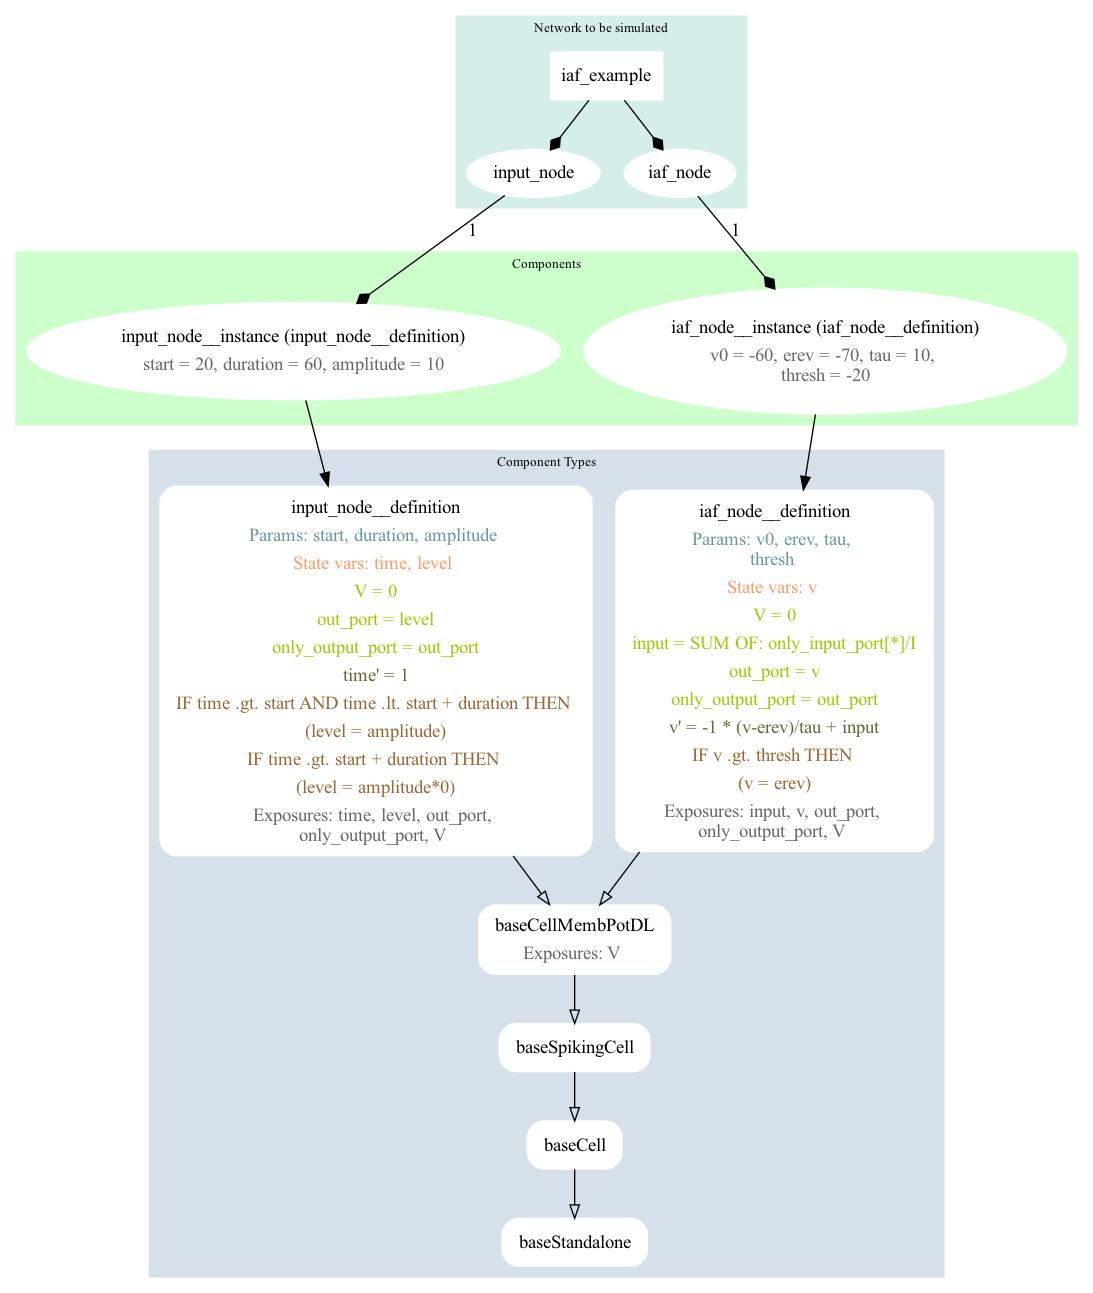
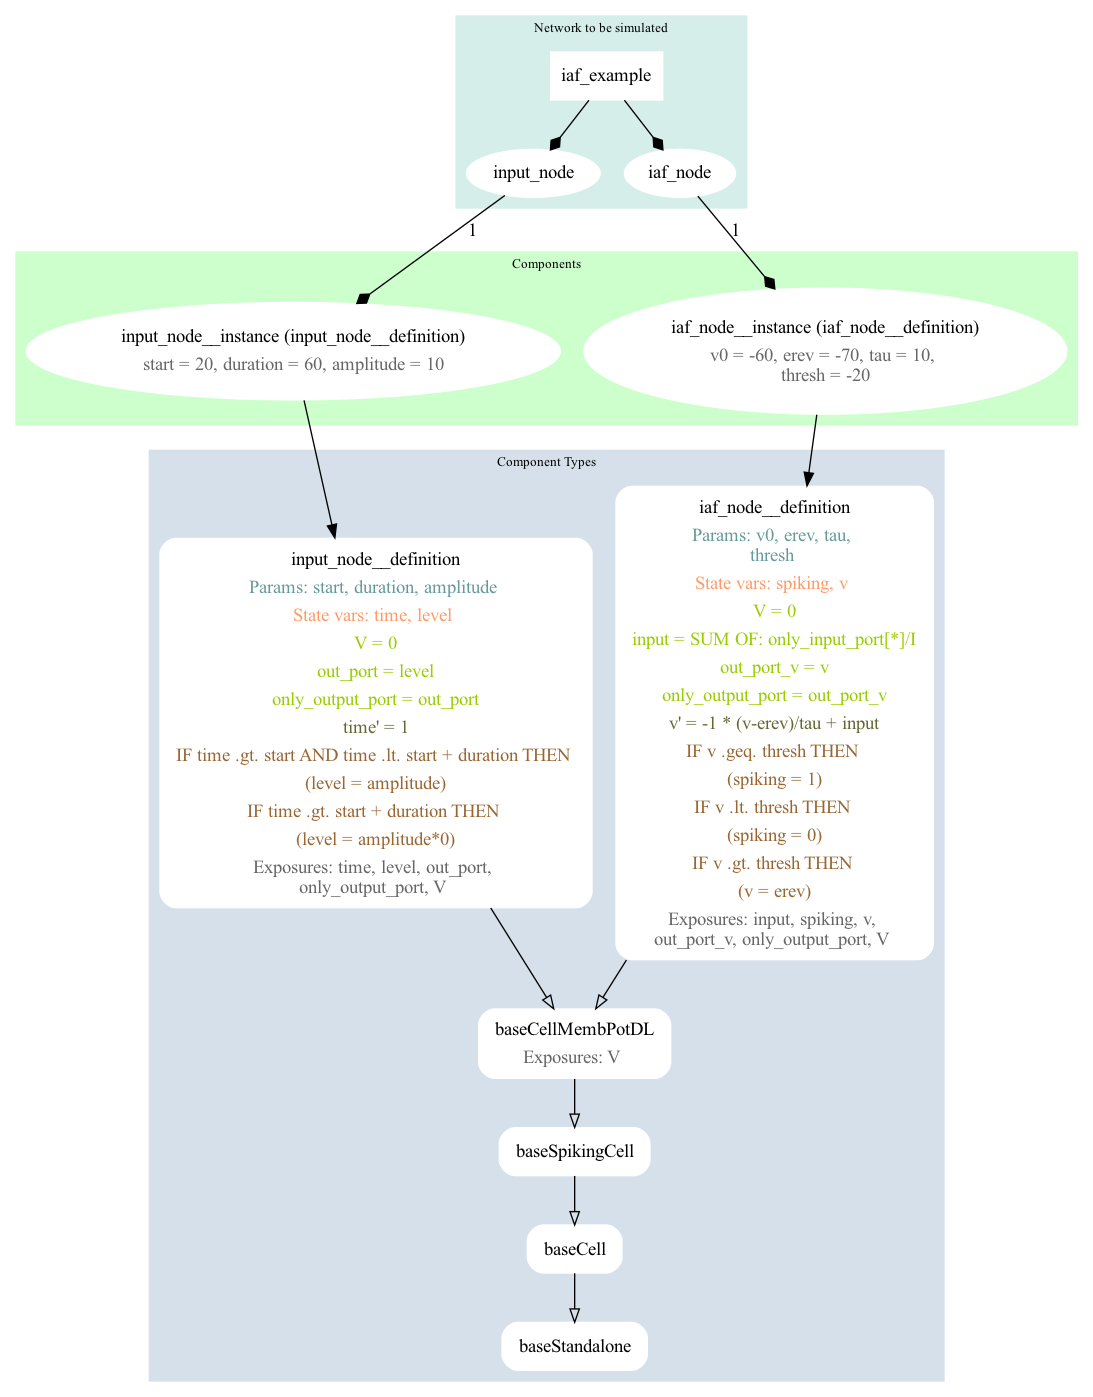
Add variable to iaf for spiking; to nmllite 0.5.3

Changed region(s): [[0.0, 0.0, 0.9954, 0.9899]]

diff --git a/examples/MDF/RNN/generate_iaf.py b/examples/MDF/RNN/generate_iaf.py
@@ -75,6 +75,17 @@ def main():
     # v_init = Parameter(id="v_init", value=-30)
     # iaf_node.parameters.append(v_init)
 
+    pc1 = ParameterCondition(id="is_spiking", test="v >= thresh", value="1")
+    pc2 = ParameterCondition(id="not_spiking", test="v < thresh", value="0")
+
+    spiking = Parameter(
+        id="spiking",
+        default_initial_value="0",
+    )
+    spiking.conditions.append(pc1)
+    spiking.conditions.append(pc2)
+    iaf_node.parameters.append(spiking)
+
     pc = ParameterCondition(id="reset", test="v > thresh", value="erev")
 
     v = Parameter(
@@ -86,8 +97,9 @@ def main():
 
     iaf_node.parameters.append(v)
 
-    op1 = OutputPort(id="out_port", value="v")
-    iaf_node.output_ports.append(op1)
+    op_v = OutputPort(id="out_port_v", value="v")
+    iaf_node.output_ports.append(op_v)
+
     mod_graph.nodes.append(iaf_node)
 
     e1 = Edge(
@@ -101,7 +113,7 @@ def main():
 
     if net:
         num = 8
-
+        random.seed(123)
         v0.value = numpy.array([random.random() * 20 - 70 for r in range(num)])
         erev.value = numpy.array([-70.0] * len(v0.value))
         thresh.value = numpy.array([-20.0] * len(v0.value))
@@ -132,6 +144,7 @@ def main():
         t = []
         i = []
         s = []
+        sp = []
         while t_ext <= duration:
             times.append(t_ext)
             print("======   Evaluating at t = %s  ======" % (t_ext))
@@ -142,7 +155,8 @@ def main():
 
             i.append(eg.enodes["input_node"].evaluable_outputs["out_port"].curr_value)
             t.append(eg.enodes["input_node"].evaluable_parameters["time"].curr_value)
-            s.append(eg.enodes["iaf_node"].evaluable_outputs["out_port"].curr_value)
+            s.append(eg.enodes["iaf_node"].evaluable_outputs["out_port_v"].curr_value)
+            sp.append(eg.enodes["iaf_node"].evaluable_parameters["spiking"].curr_value)
             t_ext += dt
 
         import matplotlib.pyplot as plt
@@ -166,9 +180,18 @@ def main():
         else:
             plt.plot(times, s, label="IaF 0 state")
 
+        if type(sp[0]) == numpy.ndarray and sp[0].size > 1:
+            for spi in range(len(sp[0])):
+                sps = []
+                for ti in range(len(t)):
+                    sps.append(sp[ti][spi])
+                plt.plot(times, sps, label="IaF %s spiking" % spi)
+        else:
+            plt.plot(times, sp, label="spiking")
+
         plt.legend()
 
-        plt.savefig("IaF.run.png", bbox_inches="tight")
+        plt.savefig("IaF%s.run.png" % (".net" if net else ""), bbox_inches="tight")
 
         if "-nogui" not in sys.argv:
             plt.show()

diff --git a/src/modeci_mdf/execution_engine.py b/src/modeci_mdf/execution_engine.py
@@ -566,9 +566,10 @@ class EvaluableParameter:
                     verbose=self.verbose,
                     array_format=array_format,
                 )
-                print(
-                    f"Incrementing {self.parameter.id} from {self.curr_value} by {td} over time {time_increment}"
-                )
+                if self.verbose:
+                    print(
+                        f"Incrementing {self.parameter.id} from {self.curr_value} by {td} over time {time_increment}"
+                    )
 
                 self.curr_value = np.add(
                     self.curr_value, td * time_increment, casting="safe"
